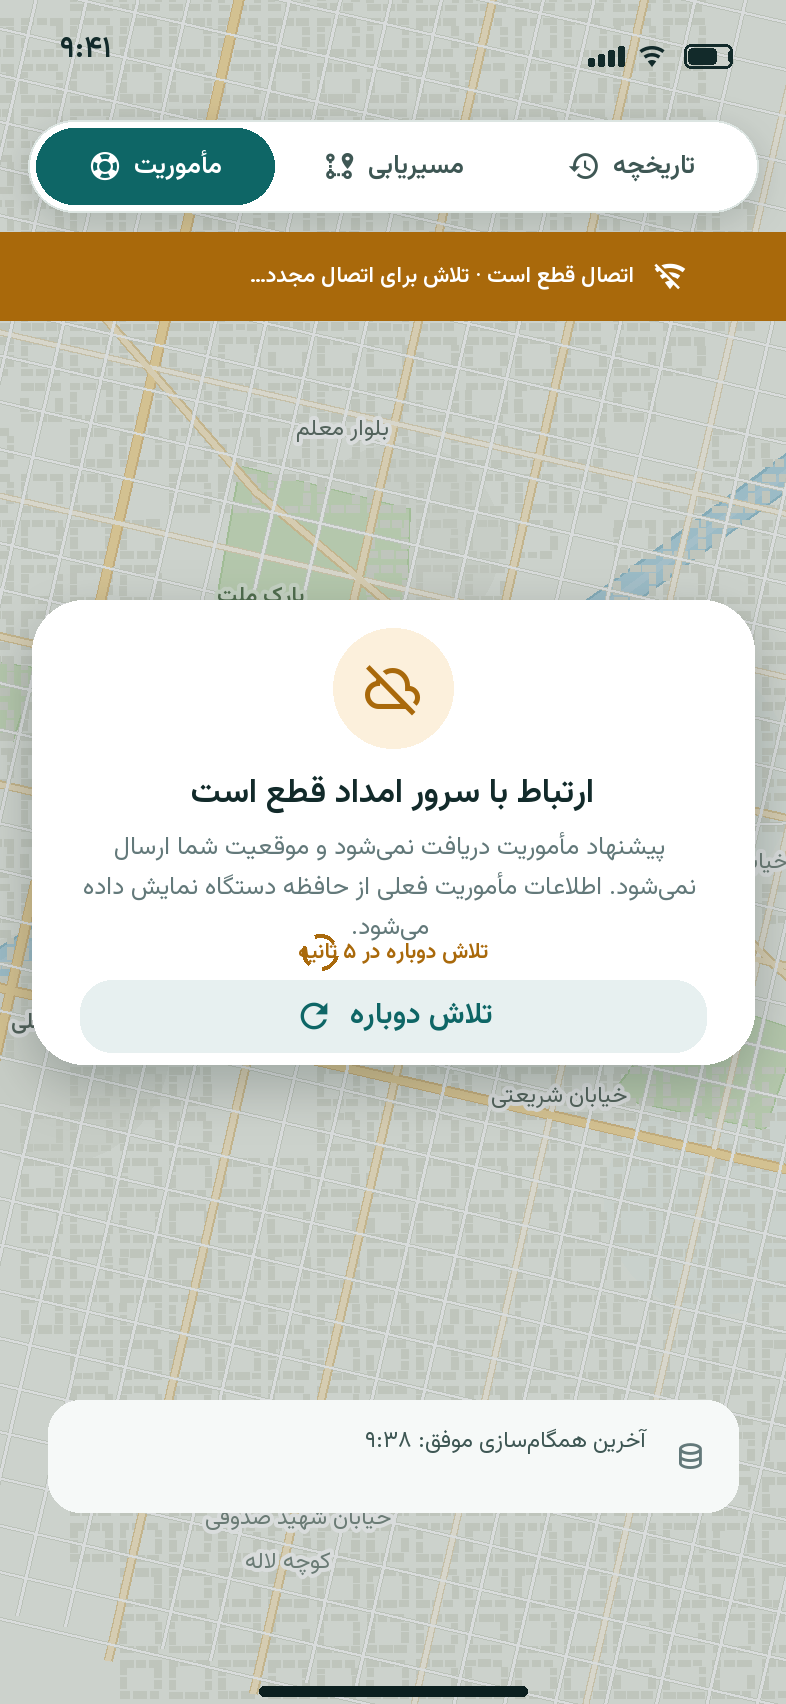
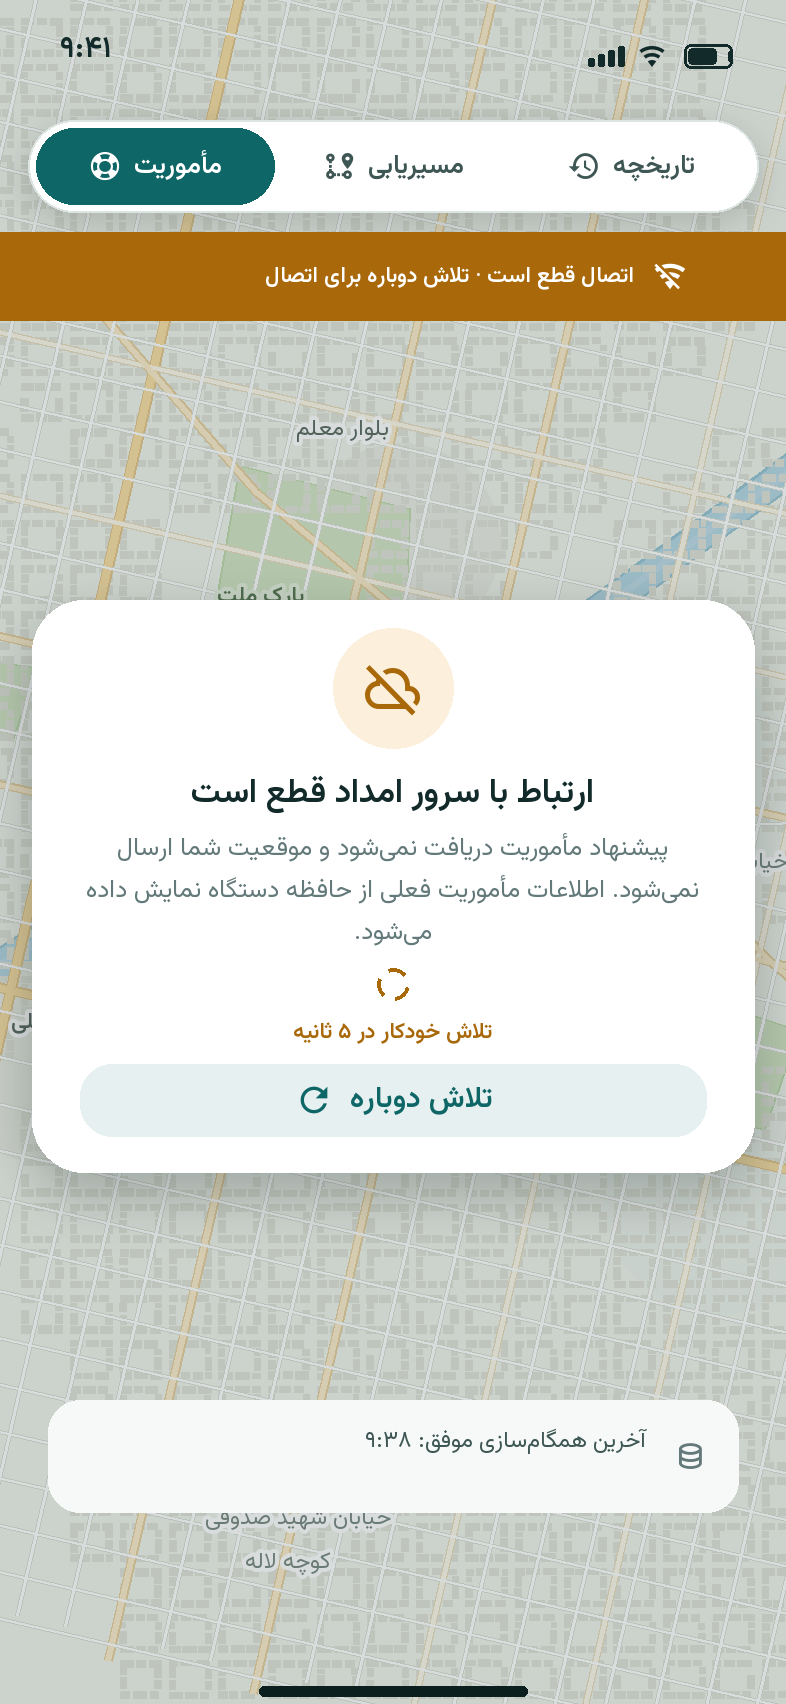
design(map): second review pass on the mockup set
Fixes from a screen-by-screen review of all 47 references:

- bb/prims: add clip_rounded() so the bottom-sheet board frames render as real
  device screens (map + sheet clipped to a rounded viewport); scrim() and
  alpha_layer() now composite instead of painting opaque, and avatar() centres
  its initial inside the disc
- bb/ui: metric_tiles() steps a value down a type size instead of ellipsizing
  it, and the mission-count badge sits on the active pill's outer corner
- navigation: search sheet scrim restored over the map, route options gained an
  ETA caveat row, off-route and full-route panels re-fitted, manual-origin pin
  cleaned up, SOS type chips no longer collide
- mission: offer and offer-details are full bottom sheets with pagination,
  in-progress gained a live-report block, support-pending explains the request,
  offline card re-centred, leader dashboard and support notification compacted,
  cancel/support copy trimmed to fit
- history: companion avatars legible, privacy and error notes wrap correctly,
  timeline timestamps left-anchored
- bottom-sheet board: real map backdrop, three frame heights, no empty frames

Changed region(s): [[0.0305, 0.4977, 0.9771, 0.7154], [0.3359, 0.1555, 0.5191, 0.1866]]

diff --git a/design/map-page/_generator/screens/mission.py b/design/map-page/_generator/screens/mission.py
@@ -165,13 +165,7 @@ def mission_offer_details() -> Screen:
     incident_marker(s, cam, *sc.INCIDENT, None, icon="fire")
     user_cone(s, cam, *sc.USER, bearing=28)
 
-    # compact swipe indicator above the sheet (second of three offers)
-    for index in range(3):
-        active = index == 1
-        s.rect(196.5 - 26 + index * 18, 300, 14 if active else 8, 5,
-               fill=C.primary if active else "#FFFFFF", radius=3)
-
-    top = 316
+    top = 310
     s.shadow(0, top - 10, 393, 852 - top + 20, radius=30, blur=26, dy=-2, alpha=52)
     s.rect(0, top, 393, 852 - top + 2, fill="#FFFFFF", radius=30)
     s.rect(0, top + 30, 393, 852 - top - 30, fill="#FFFFFF")
@@ -180,40 +174,45 @@ def mission_offer_details() -> Screen:
     y = sheet_header(s, top + 20, "جزئیات پیشنهاد", "پیشنهاد ۲ از ۳ · آتشسوزی تجاری",
                      icon="mdi-lifebuoy", tone="mission", title_style="title")
 
-    s.rect(16, y, 361, 96, fill=C.danger_soft, radius=18)
-    s.text(357, y + 12, "نوع حادثه", "caption", C.danger, align="right")
-    s.text(357, y + 30, "آتشسوزی انبار تجاری، طبقهٔ دوم", "title-sm", C.text, align="right",
+    s.rect(16, y, 361, 88, fill=C.danger_soft, radius=18)
+    s.text(357, y + 10, "نوع حادثه", "caption", C.danger, align="right")
+    s.text(357, y + 28, "آتشسوزی انبار تجاری، طبقهٔ دوم", "title-sm", C.text, align="right",
            max_width=320)
-    s.text(357, y + 58, "شدت بالا · نیاز به تیم دو نفره · احتمال گسترش", "caption", C.muted,
-           align="right", max_width=320)
-    s.chip(30, y + 62, "SOS فوری", None, "danger", h=24)
-    y += 110
+    s.text(357, y + 56, "شدت بالا · نیاز به تیم دو نفره", "caption", C.muted, align="right",
+           max_width=230)
+    s.chip(30, y + 56, "SOS فوری", None, "danger", h=24)
+    y += 100
 
     s.text(357, y, "اطلاعات محل", "caption-bold", C.muted, align="right")
-    y += 24
+    y += 22
     rows = [("نشانی", INCIDENT_ADDRESS), ("مسافت از موقعیت شما", "۱٫۲ کیلومتر"),
             ("زمان رسیدن تقریبی", "۴ دقیقه با خودرو"), ("درخواستکننده", REQUESTER),
-            ("گروه امدادی", "آتشنشانی · نیازی به پشتیبانی اضافه نیست")]
+            ("گروه امدادی", "آتشنشانی")]
     for index, (label, value) in enumerate(rows):
-        ry = y + index * 34
-        s.text(357, ry, label, "caption", C.muted, align="right")
-        s.text(250, ry, value, "caption-bold", C.text_2, align="right", max_width=250)
+        ry = y + index * 30
+        s.text(357, ry, label, "caption", C.muted, align="right", max_width=122)
+        s.text(228, ry, value, "caption-bold", C.text_2, align="right", max_width=200)
         if index < len(rows) - 1:
-            s.divider(30, ry + 27, 363)
-    y += len(rows) * 34 + 6
+            s.divider(30, ry + 24, 363)
+    y += len(rows) * 30 + 8
 
-    s.rect(16, y, 361, 54, fill=C.surface_2, radius=14)
-    s.i.draw_icon(357 - 20, y + 27, "mdi-clock-alert-outline", 18, C.warning)
-    s.text(357 - 44, y + 8, "اعتبار این پیشنهاد تا ۰:۳۸ دیگر", "caption-bold", C.warning,
+    s.rect(16, y, 361, 50, fill=C.surface_2, radius=14)
+    s.i.draw_icon(357 - 18, y + 25, "mdi-clock-alert-outline", 17, C.warning)
+    s.text(357 - 40, y + 7, "اعتبار این پیشنهاد تا ۰:۳۸ دیگر", "caption-bold", C.warning,
            align="right")
-    s.text(357 - 44, y + 26, "پس از پایان اعتبار، پیشنهاد به امدادگر دیگری ارسال میشود.", "caption",
-           C.muted, align="right", max_width=300)
-    y += 68
+    s.text(357 - 40, y + 25, "پس از پایان اعتبار به امدادگر دیگری ارسال میشود.", "caption",
+           C.muted, align="right", max_width=290)
+    y += 62
 
     s.button(201, y, 176, 50, "پذیرش مأموریت", icon="mdi-check", variant="filled")
     s.button(16, y, 176, 50, "رد مأموریت", icon="mdi-close", variant="tonal", color=C.muted)
     y += 62
-    s.text(196.5, y, "برای دیدن پیشنهاد بعدی، کارت را به چپ بکشید", "caption", C.muted_2,
+
+    for index in range(3):
+        active = index == 1
+        s.rect(196.5 - 19 + index * 16, y, 14 if active else 7, 4.5,
+               fill=C.primary if active else C.outline_strong, radius=2.5)
+    s.text(196.5, y + 14, "برای دیدن پیشنهاد بعدی، شیت را به چپ بکشید", "caption", C.muted_2,
            align="center")
     home_bar(s)
     return s
@@ -603,7 +602,7 @@ def support_pending() -> Screen:
     # animated pending indicator
     s.rect(16, y, 361, 86, fill=C.surface_2, radius=18)
     s.spinner(357 - 28, y + 43, 15, C.warning, 2.6)
-    s.text(357 - 56, y + 16, "در حال یافتن نیروی آماده…", "label", C.text, align="right")
+    s.text(357 - 56, y + 16, "در حال یافتن نیروی آماده", "label", C.text, align="right")
     s.text(357 - 56, y + 38, "میانگین زمان پاسخ در این منطقه: ۲ دقیقه", "caption", C.muted,
            align="right")
     s.rect(357 - 56 - 260, y + 60, 260, 6, fill=C.surface_3, radius=3)
@@ -623,9 +622,20 @@ def support_pending() -> Screen:
 
     s.button(16, y, 176, 46, "لغو درخواست", icon="mdi-close", variant="tonal", color=C.danger)
     s.button(201, y, 176, 46, "ادامهٔ رسیدگی", icon="mdi-fire", variant="filled")
-    y += 60
-    s.text(196.5, y, "با پذیرش هر نیرو، اعلان لحظهای در همین صفحه نمایش داده میشود", "caption",
-           C.muted_2, align="center", max_width=340)
+    y += 62
+
+    # what the request actually asked for, so the pending card is self-explanatory
+    s.rect(16, y, 361, 62, fill=C.surface_2, radius=16)
+    s.text(357 - 12, y + 10, "درخواست ثبتشده", "caption-bold", C.muted, align="right")
+    s.chip(24, y + 30, "آتشنشانی", "mdi-fire-truck", "warning", h=24)
+    s.text(357 - 12, y + 32, "۲ نیرو · اولویت بالا · یادداشت برای سرپرست", "caption", C.text_2,
+           align="right", max_width=250)
+    y += 74
+
+    s.rect(16, y, 361, 46, fill=C.info_soft, radius=14)
+    s.i.draw_icon(357 - 18, y + 23, "mdi-bell-ring-outline", 16, C.info)
+    s.text(357 - 38, y + 14, "با پذیرش هر نیرو، اعلان لحظهای همینجا نمایش داده میشود",
+           "caption", C.info, align="right", max_width=300)
     home_bar(s)
     return s
 
@@ -978,20 +988,22 @@ def mission_offline() -> Screen:
     chrome(s, tab=2)
     s.rect(0, 116, 393, 44, fill=C.warning)
     s.i.draw_icon(357 - 22, 138, "mdi-wifi-off", 17, "#FFFFFF")
-    s.text(357 - 40, 130, "اتصال قطع است · تلاش برای اتصال مجدد…", "caption-bold", "#FFFFFF",
+    s.text(357 - 40, 130, "اتصال قطع است · تلاش دوباره برای اتصال", "caption-bold", "#FFFFFF",
            align="right")
 
     top = 300
-    s.shadow(16, top, 361, 232, radius=26, blur=24, dy=10, alpha=60)
-    s.rect(16, top, 361, 232, fill="#FFFFFF", radius=26)
+    s.shadow(16, top, 361, 286, radius=26, blur=24, dy=10, alpha=60)
+    s.rect(16, top, 361, 286, fill="#FFFFFF", radius=26)
     s.circle(196.5, top + 44, 30, fill=C.warning_soft)
     s.i.draw_icon(196.5, top + 44, "mdi-cloud-off-outline", 30, C.warning)
     s.text(196.5, top + 84, "ارتباط با سرور امداد قطع است", "title", C.text, align="center")
-    s.para(40, top + 114, "پیشنهاد مأموریت دریافت نمیشود و موقعیت شما ارسال نمیشود. اطلاعات مأموریت فعلی از حافظهٔ دستگاه نمایش داده میشود.",
-           "body-sm", C.muted, align="center", max_width=310)
-    s.spinner(160, top + 176, 9, C.warning, 2)
-    s.text(196.5, top + 168, "تلاش دوباره در ۵ ثانیه", "caption-bold", C.warning, align="center")
-    s.button(40, top + 190, 313, 36, "تلاش دوباره", icon="mdi-refresh", variant="tonal")
+    # para() anchors at the block's left edge, so centre it on the card, not inside it
+    s.para(41.5, top + 114, "پیشنهاد مأموریت دریافت نمیشود و موقعیت شما ارسال نمیشود. "
+           "اطلاعات مأموریت فعلی از حافظهٔ دستگاه نمایش داده میشود.",
+           "body-sm", C.muted, align="center", max_width=310, line_height=21)
+    s.spinner(196.5, top + 192, 8, C.warning, 2)
+    s.text(196.5, top + 208, "تلاش خودکار در ۵ ثانیه", "caption-bold", C.warning, align="center")
+    s.button(40, top + 232, 313, 36, "تلاش دوباره", icon="mdi-refresh", variant="tonal")
 
     s.rect(24, 700, 345, 56, fill=C.surface_2, radius=16)
     s.i.draw_icon(345, 728, "mdi-database-outline", 17, C.muted)

diff --git a/design/map-page/_generator/screens/nav.py b/design/map-page/_generator/screens/nav.py
@@ -302,11 +302,11 @@ def manual_origin() -> Screen:
     origin_marker(s, cam, *sc.USER, "مبدأ فعلی")
     destination_pin(s, cam, *sc.INCIDENT, None, icon="flag-variant")
 
-    cx, cy = 196, 500
-    s.circle(cx, cy + 30, 15, fill=(15, 40, 40, 30))
-    s.i.draw_icon(cx, cy, "mdi-map-marker", 50, C.primary)
-    s.circle(cx, cy - 16.5, 6.5, fill="#FFFFFF")
-    s.circle(cx, cy - 16.5, 3.6, fill=C.primary)
+    # fixed centre pin: the map moves under it, so it is the only marker with a shadow
+    cx, cy = 196, 470
+    with s.alpha_layer():
+        s.circle(cx, cy + 24, 17, fill=(15, 40, 40, 34))
+    s.i.draw_icon(cx, cy, "mdi-map-marker", 54, C.primary)
 
     s.shadow(12, 136, 369, 84, radius=22, blur=20, dy=6, alpha=46)
     s.rect(12, 136, 369, 84, fill="#FFFFFF", radius=22, outline=C.outline, outline_w=1)
@@ -536,8 +536,8 @@ def navigation_alternatives() -> Screen:
 # 11 — full route overview
 # --------------------------------------------------------------------------- #
 def navigation_full_route() -> Screen:
-    cam = sc.camera(20, 40, 0.105).aim_at(120, 40, 196, 470)
-    s = map_view(cam, exclude=keepout(box(0, 0, 393, 200), box(0, 700, 393, 152)))
+    cam = sc.camera(20, 40, 0.135).aim_at(120, 40, 196, 440)
+    s = map_view(cam, exclude=keepout(box(0, 0, 393, 200), box(0, 668, 393, 184)))
     s.top_scrim(190, start=240)
     chrome(s, tab=1)
     draw_route(s, cam, ROUTE_MAIN, width_m=17)
@@ -552,15 +552,20 @@ def navigation_full_route() -> Screen:
     s.icon_button(24, 136, 40, "mdi-arrow-collapse", 19, C.primary, fill=C.primary_soft, outline=None,
                   shadow=False, radius=13)
 
-    # route summary chips along the bottom
-    top = 692
+    # route summary panel along the bottom
+    top = 660
     s.shadow(0, top - 8, 393, 852 - top + 16, radius=26, blur=24, dy=-2, alpha=48)
     s.rect(0, top, 393, 852 - top + 2, fill="#FFFFFF", radius=26)
     s.rect(0, top + 26, 393, 852 - top - 26, fill="#FFFFFF")
-    s.text(377 - 14, top + 14, "۹ دقیقه · ۱٫۲ کیلومتر", "title-sm", C.text, align="right")
-    s.text(377 - 14, top + 40, "۹:۵۰ رسیدن · ترافیک روان", "caption", C.muted, align="right")
-    s.button(16, top + 14, 168, 52, "راهنمای زنده", icon="mdi-navigation-variant",
+    s.rect(170, top + 8, 53, 4.5, fill=C.outline_strong, radius=3)
+    s.text(377 - 14, top + 22, "۹ دقیقه · ۱٫۲ کیلومتر", "title", C.text, align="right")
+    s.text(377 - 14, top + 52, "رسیدن ۹:۵۰ · ترافیک روان · ۲ مانور", "caption", C.muted,
+           align="right")
+    s.divider(30, top + 76, 363)
+    s.button(16, top + 88, 176, 50, "راهنمای زنده", icon="mdi-navigation-variant",
              variant="filled", shadow=True)
+    s.button(201, top + 88, 176, 50, "مسیر جایگزین", icon="mdi-source-branch",
+             variant="tonal")
     home_bar(s)
     return s
 

diff --git a/design/map-page/_generator/bb/ui.py b/design/map-page/_generator/bb/ui.py
@@ -174,9 +174,16 @@ def metric_tiles(screen: Screen, x: float, y: float, w: float, items: Sequence[t
     for index, (label, value, icon) in enumerate(items):
         tx = x + index * (tw + gap)
         screen.rect(tx, y, tw, h, fill=surface, radius=R.sm)
-        screen.text(tx + tw - 10, y + 8, label, "caption", C.muted, align="right")
-        screen.text(tx + tw - 10, y + 26, value, "metric-sm", C.text, align="right",
+        screen.text(tx + tw - 10, y + 8, label, "caption", C.muted, align="right",
                     max_width=tw - 20)
+        # A metric that ends in "…" reads as a bug, so step the value down a size
+        # instead of ellipsizing it inside a narrow tile.
+        inner = tw - 20
+        style = next((candidate for candidate in ("metric-sm", "title-sm", "title")
+                      if screen.tw(value, candidate) <= inner), "title")
+        offset = {"metric-sm": 26, "title-sm": 30, "title": 30}[style]
+        screen.text(tx + tw - 10, y + offset, value, style, C.text, align="right",
+                    max_width=inner)
         if icon:
             screen.i.draw_icon(tx + 14, y + 20, icon, 15, C.muted_2)
 

diff --git a/design/map-page/_generator/bb/prims.py b/design/map-page/_generator/bb/prims.py
@@ -336,7 +336,8 @@ class Screen:
 
     def avatar(self, x, y, d, initial, fill=C.primary_soft, color=C.primary, style="title"):
         self.circle(x + d / 2, y + d / 2, d / 2, fill=fill)
-        self.text(x + d / 2, y + d / 2, initial, style, color, align="center")
+        # text() anchors x,y at the line's top box, so centre it inside the disc.
+        self.text(x + d / 2, y + (d - TYPE[style][2]) / 2, initial, style, color, align="center")
 
     def toggle(self, x, y, w=44, h=26, on=True, on_color=C.primary, off_color="#CBD7D4"):
         r = h / 2
